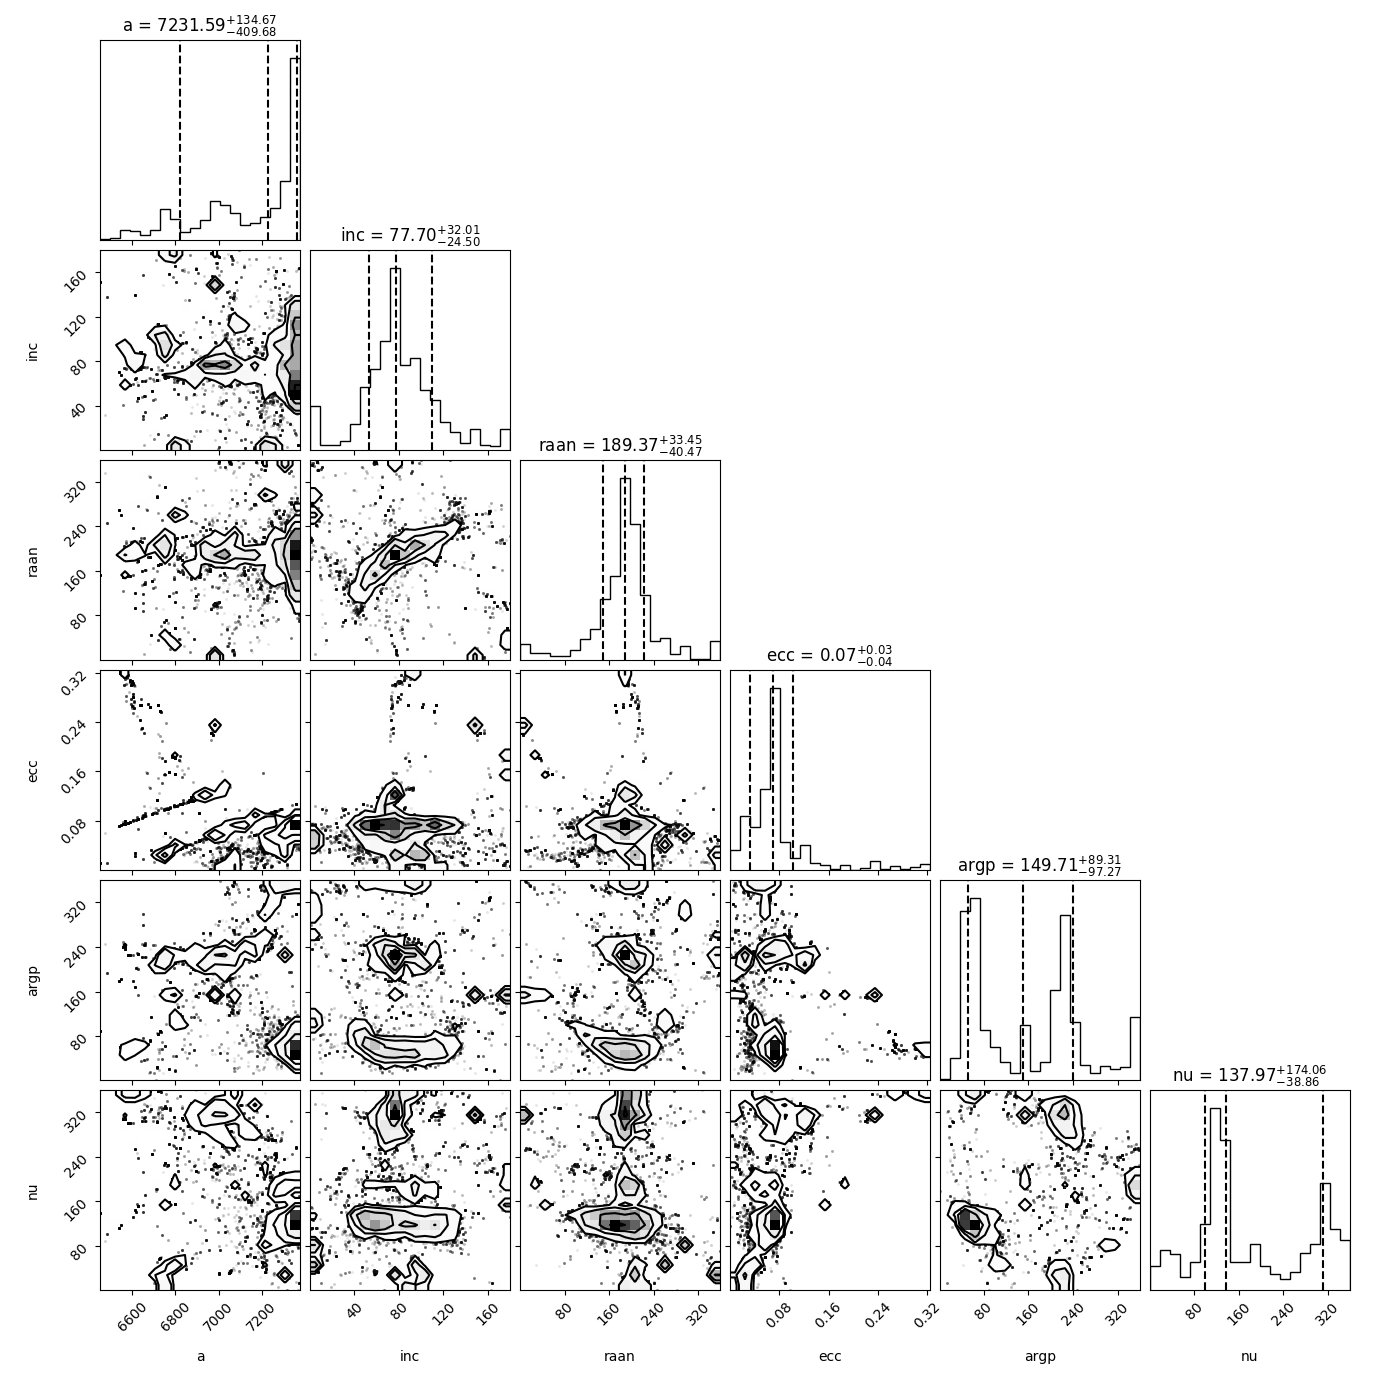
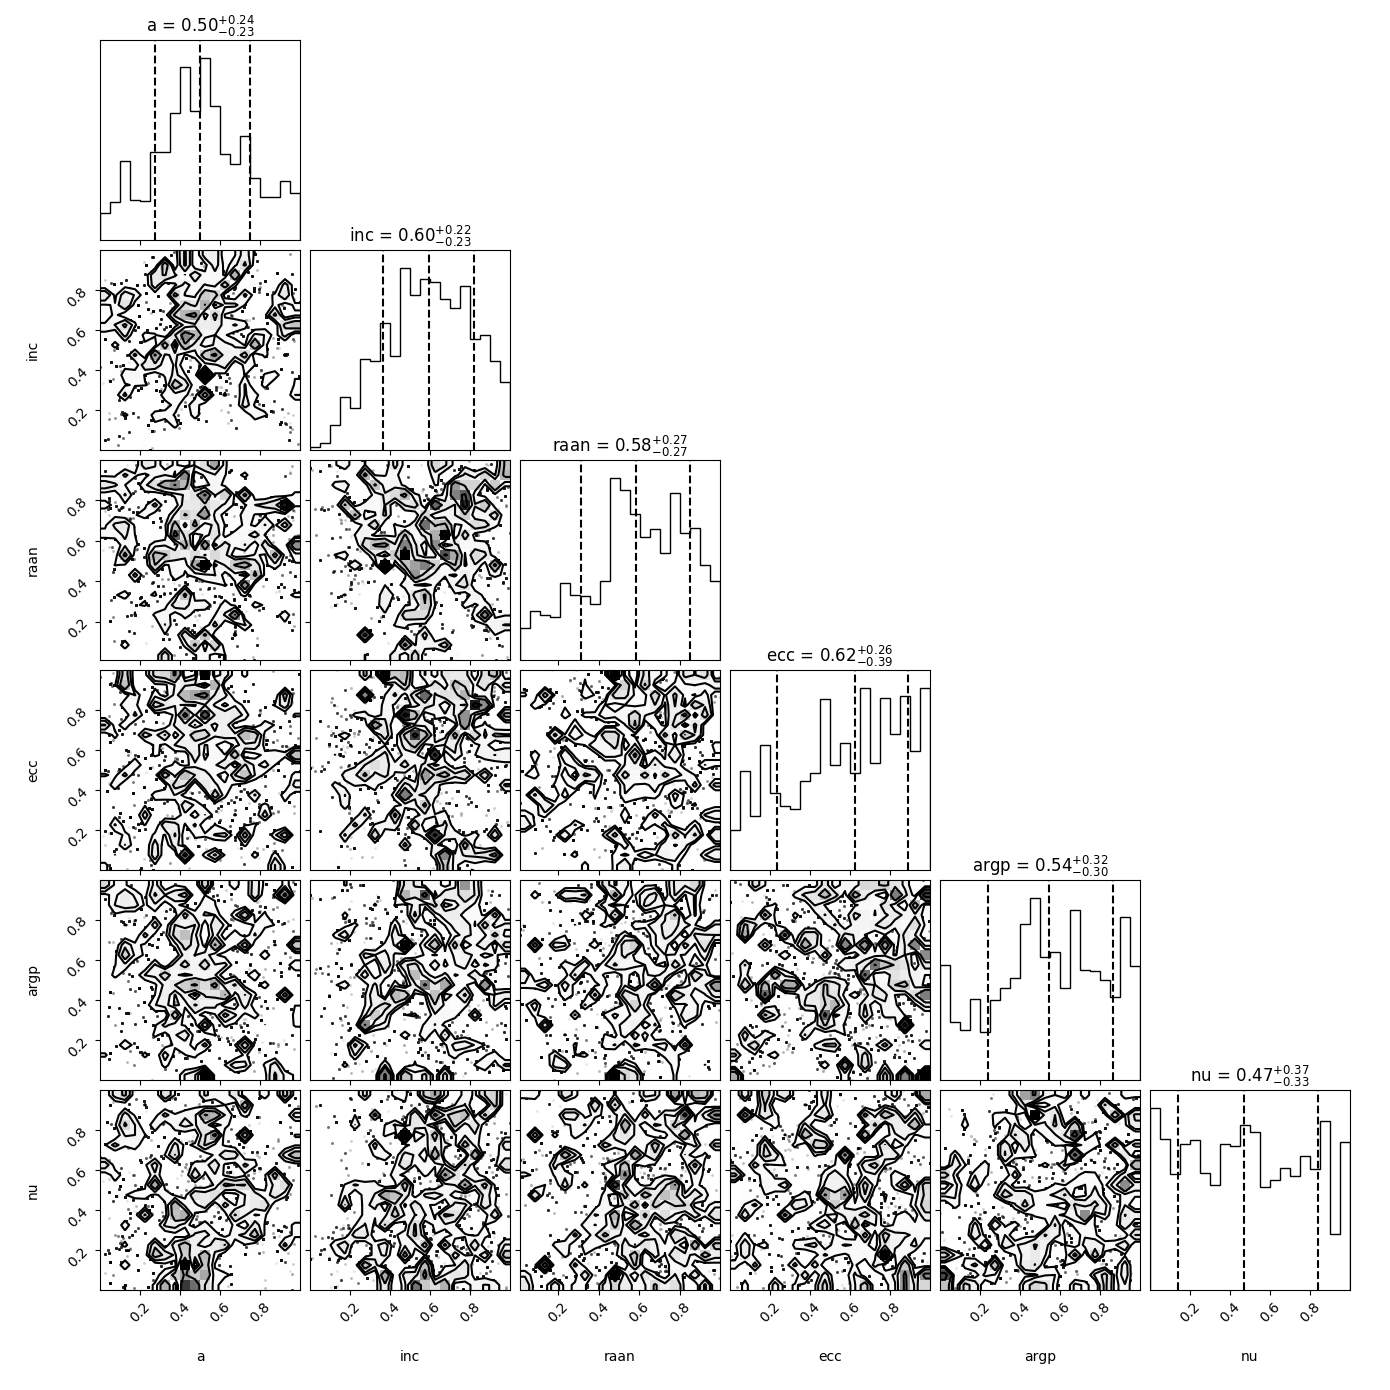
added standard Gaussian

Changed region(s): [[0.0309, 0.0309, 0.9899, 0.959], [0.0928, 0.0, 0.1856, 0.0928], [0.3403, 0.2475, 0.3712, 0.2784]]

diff --git a/mcmc_norm.py b/mcmc_norm.py
@@ -35,34 +35,9 @@ We can parse arguments from the user for switching a_max
 in case, the satellite is expected to be in a Molniya/Geostationary orbit.
 '''
 
-def random_a():
-    return radius_earth + leo_max_altitude * abs(np.random.rand())
-
-def random_ecc():
-    return np.random.rand()*0.001
-
-def random_inc():
-    return abs(np.random.rand()*90)
-
-def random_raan():
-    return abs(np.random.rand()*360)
-
-def random_argp():
-    return abs(np.random.rand()*360)
-
-def random_nu():
-    return abs(np.random.rand()*360)
-
 nwalkers = 50
 ndim = 6
-MCMC_steps = 300
-
-# walkers holds the initial state of emcee walkers
-walkers = []
-for i in range(nwalkers):
-    walker = np.array([random_a(), random_inc(), random_raan(), random_ecc(),  random_argp(), random_nu()])
-    walkers.append(walker)
-walkers = np.array(walkers)
+MCMC_steps = 1000
 
 state_vectors = []
 epochs = []
@@ -78,30 +53,28 @@ with open('./1998-067PN.csv', 'r') as f:
 ndim_state_vectors = len(state_vectors[0])
 ndata = len(state_vectors)
 
+def scale(param):
+
+    a, inc, raan, ecc, argp, nu = param
+    a = a_min + ( a_max - a_min ) * a
+    inc  *= 90
+    raan *= 360
+    ecc  *= 0.001
+    argp *= 360
+    nu   *= 360
+    param = [a, inc, raan, ecc, argp, nu]
+
+    return param
+
 def lnprob( param, covariance ):
     """
     param = [a, inc, raan, ecc, argp, nu]
     """
-    a, inc, raan, ecc, argp, nu = param
-    ### Limit the parameter space ###
-    
-    if a < a_min or a > a_max:
-        return -np.inf
-    
-    if inc < 0 or inc > 90:
-        return -np.inf
+    for value in param:
+        if value < 0 or value > 1:
+            return -np.inf
 
-    if raan < 0 or raan > 360:
-        return -np.inf 
-
-    if ecc < 0 or ecc > 1 :
-        return -np.inf
-    
-    if argp < 0 or argp > 360:
-        return -np.inf
-    
-    if nu < 0 or nu > 360:
-        return -np.inf
+    param = scale(param)
 
     '''
     SGP4 script is from master branch of our orbitdeterminator repository 
@@ -129,12 +102,36 @@ def lnprob( param, covariance ):
     error /= len(epochs)
     error = error.T
     likelihood = -0.5 * np.dot(error.T, np.linalg.solve(covariance, error))
+    
     if np.sum(abs(error.T)) < 100 or np.exp(likelihood) > 0.97:
-        print(error.T)
-        print(np.exp(likelihood)[0])
+        print(error.T[0])
+        print(np.exp(likelihood))
+
     return likelihood
 
-covariance = state_vector_covariance_matrix()
+try:
+    covariance = state_vector_covariance_matrix()
+except:
+    '''
+        I have calculated the covariance matrix with help of data generated by data.py
+        This covariance matrix is for Gaussian distribution of (x, y, z)
+    '''
+    covariance = [
+                    [1413939.001, 351792.778, 190925.253], 
+                    [351792.778, 1464920.216, -341469.837],
+                    [190925.253, -341469.837, 2086747.891]
+                 ]
+    covariance = np.array(covariance)
+
+
+# walkers holds the initial state of emcee walkers
+walkers = []
+for i in range(nwalkers):
+    walker_state = []
+    for index in range(ndim):
+        walker_state.append( abs(np.random.rand()) )
+    walkers.append(walker_state)
+walkers = np.array(walkers)
 
 print(" MCMC running with {} walkers, {} Steps".format(nwalkers, MCMC_steps))
 sampler = emcee.EnsembleSampler(nwalkers, ndim, lnprob, args=[ covariance ], threads=8)
@@ -146,6 +143,8 @@ print('Exp( max lnprobability ) :', np.exp(sampler.lnprobability.max()))
 best_sample = np.mean(sampler.chain[max_probability_points[0], max_probability_points[1]], axis=0)
 
 parameter_labels = ['a', 'inc', 'raan', 'ecc', 'argp', 'nu']
+best_sample = scale(best_sample)
+
 for index, value in enumerate(best_sample):
     print(parameter_labels[index], ':', value)
 fig = corner.corner(samples, labels=parameter_labels, show_titles=True, plot_datapoints=True, quantiles=[0.16,0.5, 0.84])

diff --git a/covariance.py b/covariance.py
@@ -1,17 +1,17 @@
+import os
+import csv
 import json
 import math
 import numpy as np
 
-def covariance_matrix():
+def kep_covariance_matrix():
     file = open('labels.json', 'r')
     satellites = json.load(file)
     file.close()
 
     whole_data = []
     for satellite in satellites:
-        # For Gibbs 
-        # [a, ecc, inc, argp, raan, nu]
-        row = [satellite['sma'], satellite['ecc'], satellite['inc'], satellite['aop'], satellite['ran'], satellite['man']]
+        row = [satellite['a'], satellite['inc'], satellite['raan'], satellite['ecc'], satellite['argp'], satellite['nu']]
         whole_data.append(row)
 
     ndim = len(row)
@@ -32,3 +32,34 @@ def covariance_matrix():
         print(covariance)
           
     return covariance
+
+def state_vector_covariance_matrix():
+
+    files_list = os.listdir('./data')
+    whole_data = []
+    for satellite in files_list:
+        r = open('./data/' + satellite, 'r')
+        reader = csv.reader(r)
+        for row in reader:
+            whole_data.append([ float(value) for value in row[1:] ])
+        r.close()
+
+    ndim = len(row[1:])
+    ndata = len(whole_data)
+    whole_data = np.array(whole_data)
+    means = np.nanmean(whole_data, axis=0)
+    
+    covariance = np.zeros(ndim ** 2).reshape(ndim, ndim)
+    for i in range(ndim):
+        for j in range(ndim):
+            for k in range(ndata):
+                if math.isnan(whole_data[k][i]):
+                    break
+                covariance[i][j] += ( (whole_data[k][i] - means[i]) * (whole_data[k][j] - means[j]) ) / (ndata - 1)
+
+    print('Covariance matrix')
+    with np.printoptions(precision=3, suppress=True):
+        print(covariance)
+          
+    return covariance
+        

diff --git a/sgp4propagator.py b/sgp4propagator.py
@@ -142,7 +142,7 @@ class SGP4(object):
             # ele = gibbs.orbital_elements(pos, vel)
             # print(str(tsince) + " - " + str(ele))
             # print(str(tsince) + " - " + str(pos) + " " + str(vel))
-            final[i,:] = data
+            final[i-t1,:] = data
             i = i + 1
 
         # del(gibbs)
